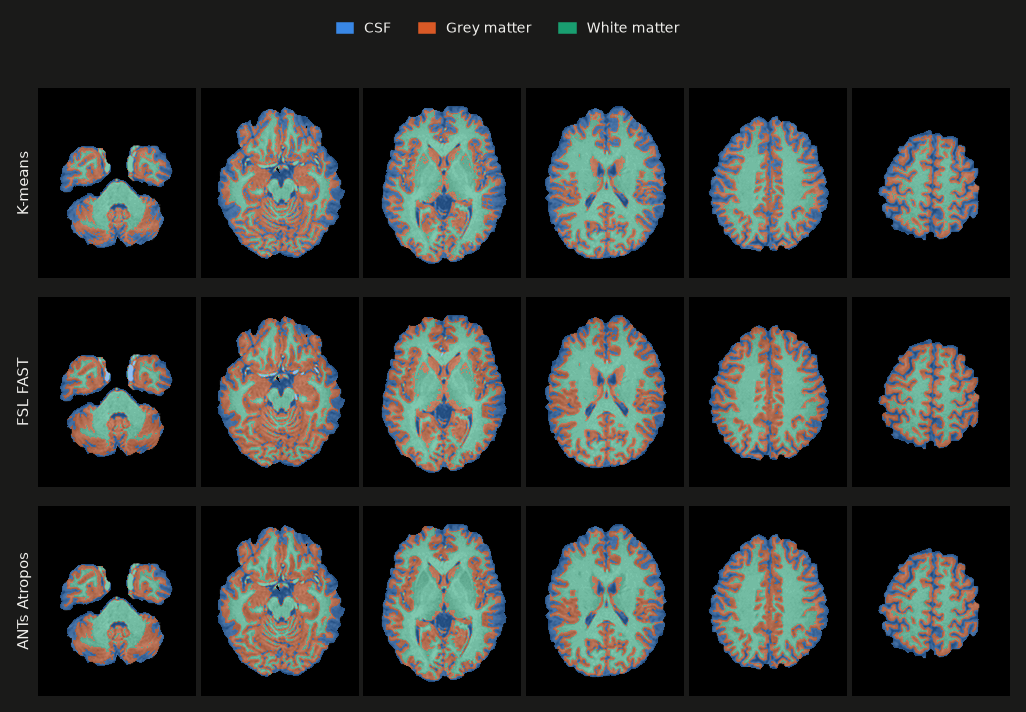
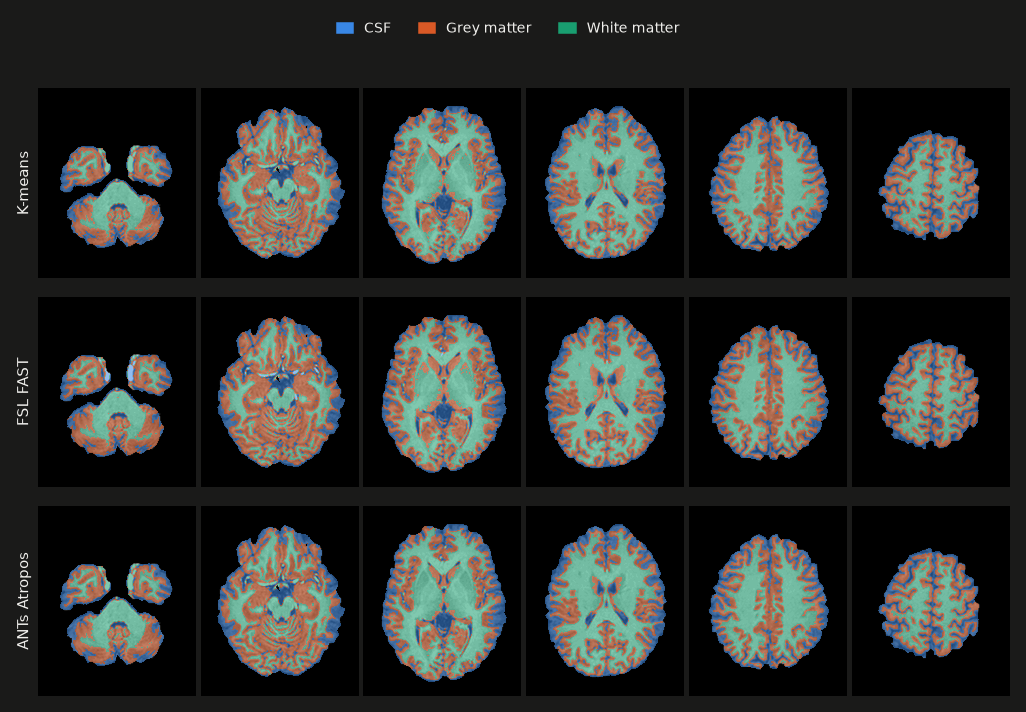
docs: show the K-means change in the README comparison
The results table no longer lists K-means' ~33% CSF as a curiosity. A new
section explains why K-means stopped reading the equalised image and shows
old vs new tissue shares and Dice against FAST and Atropos for the three
demo scans. Figures are regenerated from a full 1 mm run with the new
input, and the Mermaid diagram now feeds K-means from N4.

diff --git a/README.md b/README.md
@@ -38,7 +38,7 @@ flowchart TD
         flirt["Affine registration to MNI152<br/>FSL FLIRT, 12 dof"]
         bet["Skull stripping<br/>FSL BET"]
         n4["Bias-field correction<br/>ANTs N4"]
-        enhance["Enhancement<br/>median filter, rescale, histogram equalisation"]
+        enhance["Enhancement for viewing<br/>median filter, rescale, histogram equalisation"]
         kmeans["GM / WM / CSF by K-means<br/>scikit-learn"]
         maps["Probability maps<br/>nilearn"]
         final["final_output/"]
@@ -51,7 +51,8 @@ flowchart TD
         report["HTML report per scan"]
         index["index.html for the whole run"]
     end
-    scan --> acpc --> gz --> reorient --> flirt --> bet --> n4 --> enhance --> kmeans
+    scan --> acpc --> gz --> reorient --> flirt --> bet --> n4 --> enhance
+    n4 --> kmeans
     flirt --> maps
     kmeans --> maps --> final
     acpc --> final
@@ -64,6 +65,7 @@ flowchart TD
     analysis --> report
     render --> report
     maps --> report
+    enhance --> report
     report --> index
 ```
 
@@ -155,7 +157,7 @@ Every scan gets a page with each step side by side, the AC-PC landmarks acpcdete
 changed, the three segmentations with their volumes and agreement, the 3D brain and the original
 probability maps.
 
-<p align="center"><img src="docs/images/pipeline.png" alt="The scan after each step: original, AC-PC, registered, skull stripped, N4 corrected, enhanced" width="100%"></p>
+<p align="center"><img src="docs/images/pipeline.png" alt="The scan after each step: original, AC-PC, registered, skull stripped, N4 corrected, and the equalised view" width="100%"></p>
 
 **Bias correction, measured.** The scanner makes some parts of the head brighter than others. N4
 estimates that smooth drift (left) and divides it out; afterwards the grey- and white-matter peaks are
@@ -175,21 +177,33 @@ size. Agreement between methods is the Dice overlap per tissue (1 = the same vox
 
 Results for the three demo scans (1 mm template, FSL FAST volumes at each scan's own size):
 
-| Scan | TIV (mL) | Grey matter | White matter | CSF | CSF by K-means | CJV before → after N4 | Grey-matter Dice, FAST vs Atropos |
-|---|---:|---:|---:|---:|---:|---:|---:|
-| sub-01 | 1,324 | 45.1% | 33.6% | 21.3% | 32.8% | 0.64 → 0.56 | 0.89 |
-| sub-02 | 1,481 | 44.4% | 34.1% | 21.4% | 33.0% | 0.63 → 0.54 | 0.92 |
-| sub-03 | 1,228 | 45.7% | 33.8% | 20.6% | 32.6% | 0.64 → 0.56 | 0.87 |
+| Scan | TIV (mL) | Grey matter | White matter | CSF | CJV before → after N4 | Grey-matter Dice, FAST vs Atropos |
+|---|---:|---:|---:|---:|---:|---:|
+| sub-01 | 1,324 | 45.1% | 33.6% | 21.3% | 0.64 → 0.56 | 0.89 |
+| sub-02 | 1,481 | 44.4% | 34.1% | 21.4% | 0.63 → 0.54 | 0.92 |
+| sub-03 | 1,228 | 45.7% | 33.8% | 20.6% | 0.64 → 0.56 | 0.87 |
 
 These are three healthy adults aged 24 to 27, and FAST puts grey matter at about 45% of the
 intracranial volume and white matter at about a third. N4 lowered the grey/white CJV on every scan.
 
-One thing the comparison makes visible: K-means cuts every brain into three almost equal thirds
-(about 33% each). That comes from the original design, not from the brains. K-means runs on the
-histogram-equalised image, equalisation flattens the intensity histogram, and three clusters on a
-flat histogram end up the same size. FAST and Atropos model the actual tissue peaks instead. All three
-methods agree on white matter (Dice 0.93 to 0.96 for every pair); they differ along the border between
-grey matter and CSF (0.77 to 0.94), which is where K-means finds its extra CSF.
+### Why K-means no longer reads the equalised image
+
+The first version of this comparison showed K-means cutting every brain into almost exactly equal
+thirds. That came from the pipeline, not from the brains: K-means clustered the histogram-equalised
+image, equalisation flattens the histogram, and three clusters on a flat histogram end up the same
+size. K-means now clusters the bias-corrected brain, the same image FAST and Atropos get, after the
+same percentile clipping as before but without the equalisation. The equalised image is still made
+and shown in the report. This changes the K-means output on purpose:
+
+| Scan | K-means CSF / GM / WM, equalised (old) | K-means CSF / GM / WM, now | GM Dice vs FAST, old → now | GM Dice vs Atropos, old → now |
+|---|---:|---:|---:|---:|
+| sub-01 | 32.8 / 34.3 / 33.0% | 24.4 / 39.7 / 35.9% | 0.82 → 0.91 | 0.85 → 0.95 |
+| sub-02 | 33.0 / 34.0 / 33.0% | 22.1 / 39.7 / 38.2% | 0.82 → 0.93 | 0.78 → 0.96 |
+| sub-03 | 32.6 / 33.9 / 33.5% | 24.2 / 39.0 / 36.7% | 0.80 → 0.89 | 0.88 → 0.94 |
+
+All three methods now agree closely on white matter (Dice 0.93 to 0.99 for every pair). The
+remaining differences sit on the border between grey matter and CSF, where FAST calls a few more
+voxels grey matter than K-means and Atropos do (Dice 0.85 to 0.96).
 
 ## Inside the Docker image
 
